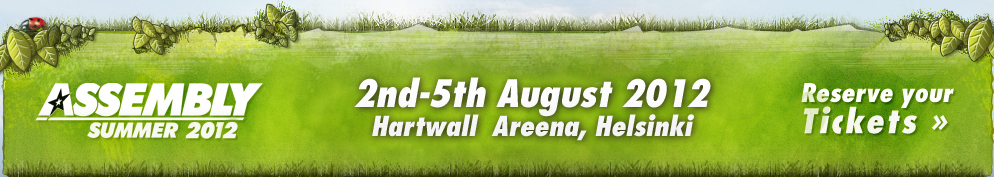
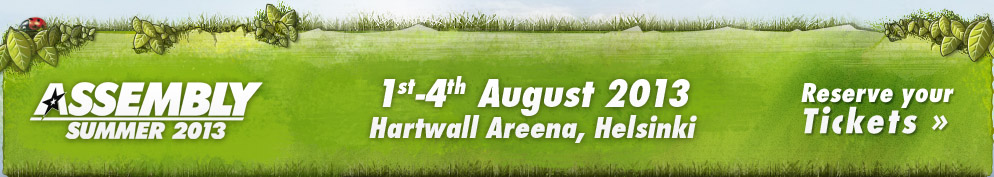
Update Summer'13 information.

diff --git a/src/asm/summer13/skin.py b/src/asm/summer13/skin.py
@@ -94,8 +94,8 @@ class LayoutHelper(asm.cmsui.public.layout.LayoutHelper):
             return []
 
     def generateCountdown(self):
-        times = (('02.08.2012 12:00', True, _("until ASSEMBLY!")),
-                 ('05.08.2012 18:00', True, _("of ASSEMBLY left to enjoy!")),
+        times = (('01.08.2013 12:00', True, _("until ASSEMBLY!")),
+                 ('04.08.2013 18:00', True, _("of ASSEMBLY left to enjoy!")),
                   (None, False, _("ASSEMBLY is over.")),)
         format = '%d.%m.%Y %H:%M'
 
